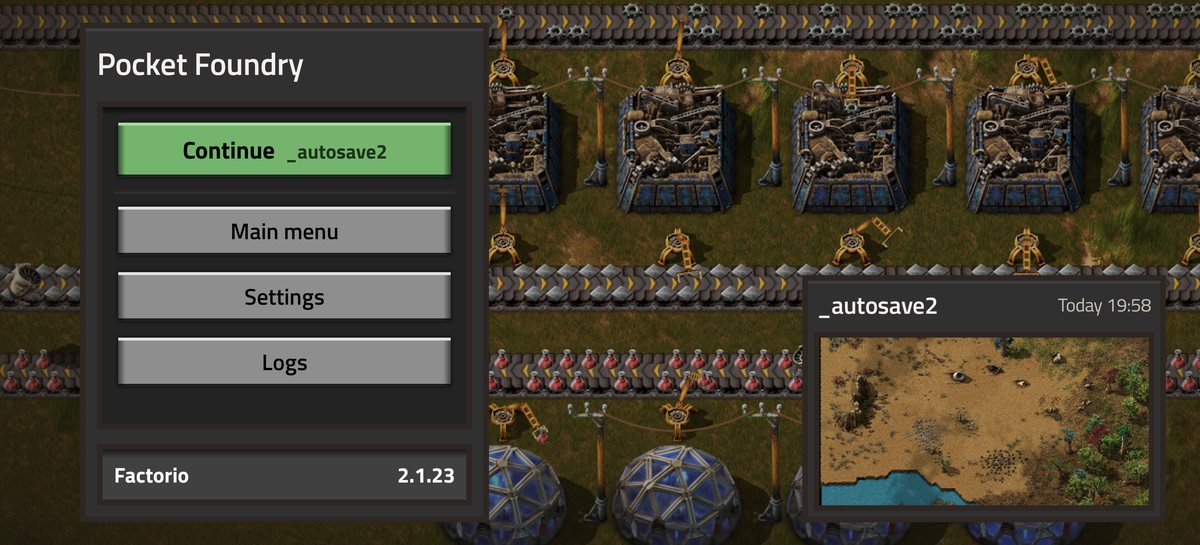
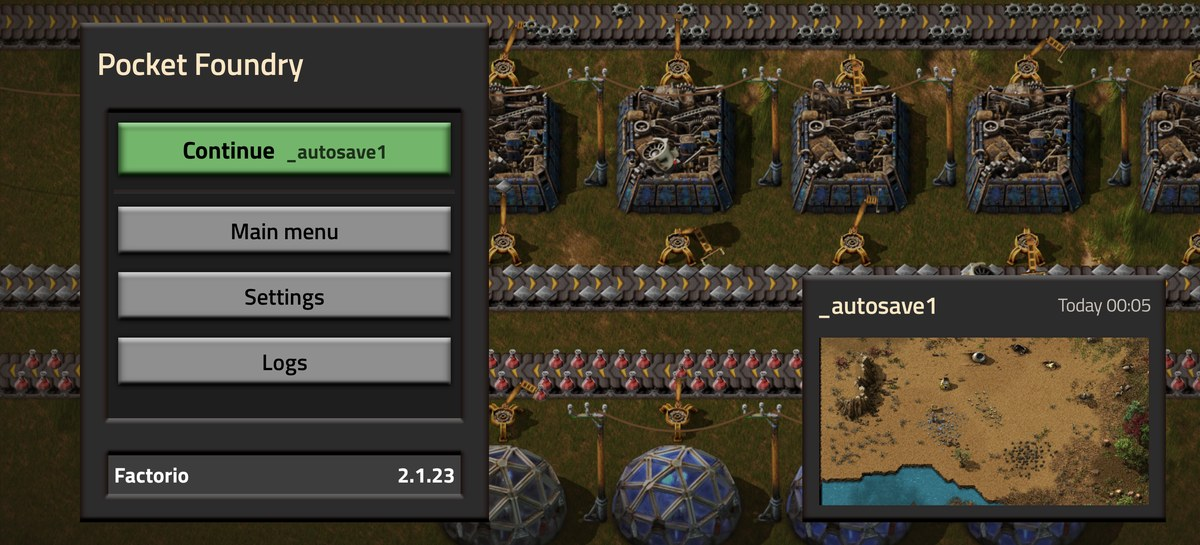
README screenshots: the game's own GUI sprites and the new controls

diff --git a/NOTES.md b/NOTES.md
@@ -726,4 +726,5 @@ step where they meet. A sprite pixel is a dp. Before an import, or if the sheet 
 pieces), the code-drawn look stays. Headings took the game's caption colour, (255, 230, 192). The game's font,
 Lilittium (OFL), is Titillium Web with Cyrillic added: the app's Titillium already matches it. Checked on the emulator:
 Home, Settings, a drop-down open, the Saves dialog, the pause menu, Logs, a disabled button (the game's dark face, grey
-text). The README's screenshots still show the code-drawn look.
+text). The README's Home, Settings, driver, pause and playing screenshots were retaken on the phone with it (and the
+new controls, in Julio's tutorial game); Welcome and Importing come before an import, so they keep the drawn look.
